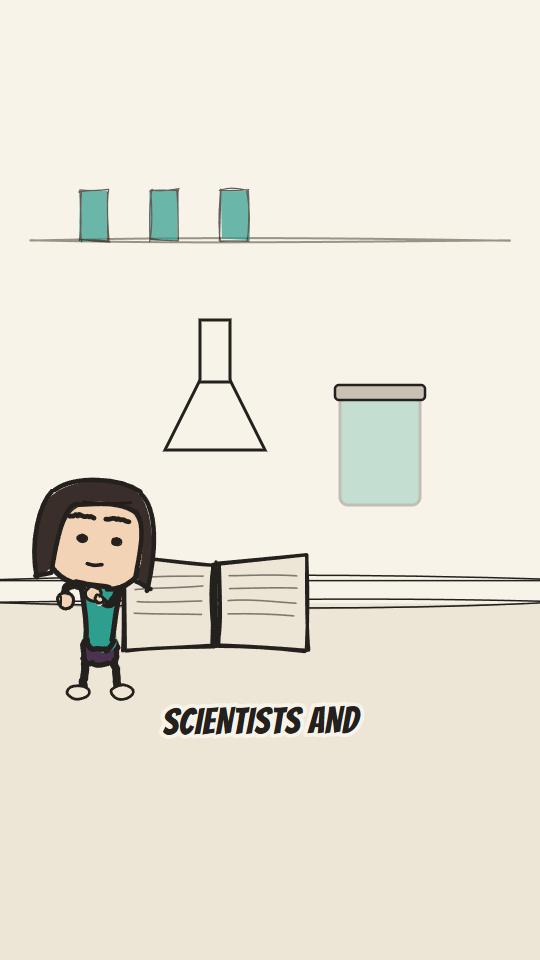
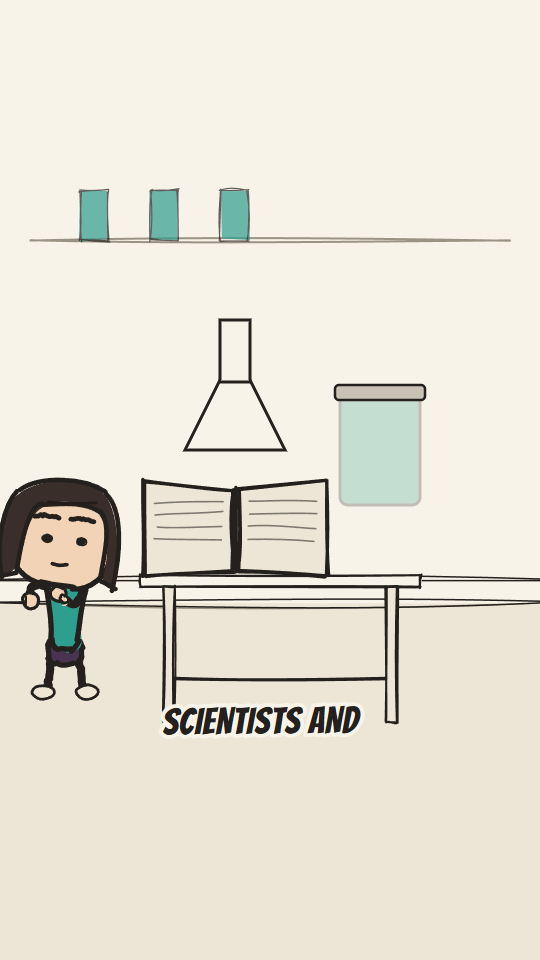
fix: resolve final batch visual defects
MANHOLE — the caption sat inside the shaft void. The cutaway's origin is road
level and it descends 200 units; at y=1100 scale 2.2 that reaches y=1540, and
the caption band starts around 1400, so near-black text landed on a near-black
rectangle. ManholeShaft gains a `depth` parameter that shortens the descent
WITHOUT narrowing it -- a plain scale change would shrink the width too, and the
cover has to stay visibly wider than the hole it cannot fall through, which is
the entire point of the episode. Applied to all three shafts in the episode; the
void now ends at 1364 and 1379.

OLD BOOK — the science scene was authored against a lab bench its storyboard
describes but nothing ever drew, so the book sat at y=1200, straddling the
background's 1204 horizon, and read as floating through Mina.

Added a LabBench prop in the existing doodle language: slab, front edge, two
legs and a stretcher. Its origin is on the TOP SURFACE rather than at the
centre, deliberately -- a prop that rests on a bench should be positioned
against the surface it rests on, and every placement bug on this channel so far
has come from an origin that was not where the author assumed (the character
rig's y is the hip, not the feet; a prop's y is its centre, not its base).

The book's own geometry then gives the placement: an open book's shapes run to
+62 locally, so at scale 1.6 its lower edge is 99px below its origin, and origin
[…]

Changed region(s): [[0.0, 0.5, 0.8, 0.7812], [0.2963, 0.3125, 0.5333, 0.4688]]

diff --git a/src/episodes/old-book-smell/scenes.tsx b/src/episodes/old-book-smell/scenes.tsx
@@ -17,7 +17,7 @@ import { useCurrentFrame } from 'remotion';
 import { Stage } from '../../components/Stage';
 import { DoodleCharacter } from '../../components/DoodleCharacter';
 import { LibraryShelf, CutawayVoid, ConservationLab } from '../../backgrounds/everyday';
-import { Book, BookCutaway } from '../../props/objects';
+import { Book, BookCutaway, LabBench } from '../../props/objects';
 import { ScentCurls, Molecule, CircleIt } from '../../fx/diagram';
 import { Sparkles } from '../../fx/marks';
 import { usePoseSwap } from '../../animation/PoseSwap';
@@ -355,22 +355,32 @@ const Science: React.FC = () => {
       <SceneCamera originX={540} originY={1000}>
         <ConservationLab frame={frame} />
 
-        <Book x={430} y={1200} scale={1.6} frame={frame} seed="ep10-book-lab" open wear={0.9} />
+        {/*
+          * The bench the storyboard always described. Its surface is at y=1150 and its legs
+          * reach the floor; the book then sits ON it rather than hovering at the background's
+          * 1204 horizon, which is what made it look like it was floating through Mina.
+          *
+          * Book maths: the open book's shapes run to +62 locally, so at scale 1.6 its lower
+          * edge is 99px below its origin. Origin 1051 puts that edge on the 1150 surface.
+          */}
+        <LabBench x={560} y={1150} width={560} legHeight={270} frame={frame} seed="ep10-bench" />
+
+        <Book x={470} y={1051} scale={1.6} frame={frame} seed="ep10-book-lab" open wear={0.9} />
 
         {/* a collection funnel over the book */}
         <g>
           <polygon
-            points="330,900 530,900 460,760 400,760"
+            points="370,900 570,900 500,760 440,760"
             fill={PALETTE.paper}
             stroke={PALETTE.ink}
             strokeWidth={6}
           />
-          <rect x={400} y={640} width={60} height={124} fill={PALETTE.paper} stroke={PALETTE.ink} strokeWidth={6} />
+          <rect x={440} y={640} width={60} height={124} fill={PALETTE.paper} stroke={PALETTE.ink} strokeWidth={6} />
         </g>
 
         {after(frame, F_EMIT) && (
           <g opacity={collect}>
-            <ScentCurls x={430} y={1080} scale={1.5} frame={frame} seed="ep10-collect" count={2} height={200} decay={0.6} />
+            <ScentCurls x={470} y={950} scale={1.5} frame={frame} seed="ep10-collect" count={2} height={200} decay={0.6} />
           </g>
         )}
 
@@ -397,7 +407,7 @@ const Science: React.FC = () => {
           character="mina"
           pose="clipboard"
           expression={after(frame, F_AGE) ? 'smallSmile' : 'neutral'}
-          x={200}
+          x={130}
           y={1294}
           scale={2.3}
           frame={frame}

diff --git a/src/props/objects.tsx b/src/props/objects.tsx
@@ -358,3 +358,49 @@ export const RoadDash: React.FC<PropArgs & { len?: number; thick?: number; color
     />
   </PropFrame>
 );
+
+/**
+ * A plain workbench, seen straight on. Origin sits on the TOP SURFACE.
+ *
+ * The `science` scene of old-book-smell was authored against a bench its storyboard describes
+ * but nothing ever drew. Without it the book was placed at y=1200 — straddling the lab
+ * background's 1204 horizon — so it read as floating at the wall/floor junction and overlapped
+ * Mina, who stands beside it.
+ *
+ * Origin on the surface rather than at the centre is the whole point: a prop that sits on a
+ * bench should be positioned relative to the surface it rests on, and every previous
+ * placement bug on this channel has come from an origin that was not where the author assumed.
+ * `legHeight` reaches down to the floor, so the caller sets the surface height and the bench
+ * meets the ground on its own.
+ */
+const benchDef = (width: number, legHeight: number): AssetDef => {
+  const half = width / 2;
+  const inset = Math.min(46, width * 0.12);
+  return {
+    id: `prop-bench-${Math.round(width)}-${Math.round(legHeight)}`,
+    size: { w: width + 20, h: legHeight + 40 },
+    shapes: [
+      // the slab, with a visible front edge so it reads as a surface rather than a line
+      { k: 'rect', x: -half, y: 0, w: width, h: 24, fill: PALETTE.paper, stroke: PALETTE.ink },
+      { k: 'line', x1: -half + 8, y1: 24, x2: half - 8, y2: 24, sw: 3, rough: 'detail', opacity: 0.5 },
+      // legs
+      { k: 'rect', x: -half + inset, y: 24, w: 22, h: legHeight, fill: PALETTE.paperShade, stroke: PALETTE.ink },
+      { k: 'rect', x: half - inset - 22, y: 24, w: 22, h: legHeight, fill: PALETTE.paperShade, stroke: PALETTE.ink },
+      // a stretcher between them, which is what makes it read as furniture and not two posts
+      {
+        k: 'line',
+        x1: -half + inset + 22, y1: 24 + legHeight * 0.68,
+        x2: half - inset - 22, y2: 24 + legHeight * 0.68,
+        sw: 6,
+      },
+    ],
+  };
+};
+
+export const LabBench: React.FC<PropArgs & { width?: number; legHeight?: number }> = ({
+  width = 520, legHeight = 250, seed = 'bench', ...rest
+}) => (
+  <PropFrame seed={seed} {...rest}>
+    <RoughAsset def={benchDef(width, legHeight)} variant={`${seed}:${width}`} />
+  </PropFrame>
+);

diff --git a/src/props/machines.tsx b/src/props/machines.tsx
@@ -436,22 +436,32 @@ export const ManholeCover: React.FC<PropArgs & { shape?: 'round' | 'square' }> =
   </PropFrame>
 );
 
-/** The opening in section: a rim and a shaft dropping into the dark. Origin at road level. */
-const SHAFT: AssetDef = {
-  id: 'prop-manhole-shaft',
-  size: { w: 160, h: 220 },
+/**
+ * The opening in section: a rim and a shaft dropping into the dark. Origin at road level.
+ *
+ * `depth` scales how far the shaft descends WITHOUT narrowing it. A plain `scale` change would
+ * shrink the width too, and the cover has to stay visibly wider than the hole it cannot fall
+ * through -- that relationship is the entire point of the episode. Depth exists because at
+ * full extent the void ran from y=1100 to y=1540 and swallowed the caption band at 1442,
+ * leaving near-black text on a near-black rectangle.
+ */
+const shaftDef = (depth: number): AssetDef => ({
+  id: `prop-manhole-shaft-${Math.round(depth * 100)}`,
+  size: { w: 160, h: 20 + 200 * depth },
   shapes: [
-    { k: 'rect', x: -78, y: 0, w: 16, h: 200, fill: PALETTE.grey, stroke: PALETTE.ink },
-    { k: 'rect', x: 62, y: 0, w: 16, h: 200, fill: PALETTE.grey, stroke: PALETTE.ink },
-    { k: 'rect', x: -62, y: 0, w: 124, h: 200, fill: PALETTE.nightWall, stroke: 'none' },
+    { k: 'rect', x: -78, y: 0, w: 16, h: 200 * depth, fill: PALETTE.grey, stroke: PALETTE.ink },
+    { k: 'rect', x: 62, y: 0, w: 16, h: 200 * depth, fill: PALETTE.grey, stroke: PALETTE.ink },
+    { k: 'rect', x: -62, y: 0, w: 124, h: 200 * depth, fill: PALETTE.nightWall, stroke: 'none' },
     // the rim the cover rests on — the ledge that makes a circle safe
     { k: 'line', x1: -92, y1: 0, x2: -62, y2: 0, sw: 5 },
     { k: 'line', x1: 62, y1: 0, x2: 92, y2: 0, sw: 5 },
   ],
-};
+});
 
-export const ManholeShaft: React.FC<PropArgs> = ({ seed = 'manhole-shaft', ...rest }) => (
+export const ManholeShaft: React.FC<PropArgs & { depth?: number }> = ({
+  seed = 'manhole-shaft', depth = 1, ...rest
+}) => (
   <PropFrame seed={seed} {...rest}>
-    <RoughAsset def={SHAFT} variant={seed} />
+    <RoughAsset def={shaftDef(depth)} variant={`${seed}:${depth}`} />
   </PropFrame>
 );

diff --git a/src/episodes/round-manhole-covers/scenes.tsx b/src/episodes/round-manhole-covers/scenes.tsx
@@ -126,7 +126,11 @@ const CannotFall: React.FC = () => {
       <SceneCamera originX={540} originY={1000}>
         <CutawayVoid frame={frame} />
 
-        <ManholeShaft x={540} y={1100} scale={2.2} frame={frame} seed="ep8-shaft" />
+        {/*
+          * depth 0.6 stops the void at y≈1364, clearing the caption band that begins around
+          * 1400. At full depth it reached 1540 and the caption sat inside it.
+          */}
+        <ManholeShaft x={540} y={1100} scale={2.2} depth={0.6} frame={frame} seed="ep8-shaft" />
 
         {/* the cover, tilted and turned — it catches on the rim every time */}
         <g transform={`translate(540 1010) rotate(${spin}) scale(1 ${0.4 + Math.abs(Math.cos((spin * Math.PI) / 180)) * 0.6})`}>
@@ -184,7 +188,11 @@ const OtherShapes: React.FC = () => {
       <SceneCamera x={shake.x} y={shake.y} rotate={shake.rotate} originX={540} originY={1050}>
         <CutawayVoid frame={frame} />
 
-        <ManholeShaft x={540} y={1100} scale={2.2} frame={frame} seed="ep8-shaft" />
+        {/*
+          * depth 0.6 stops the void at y≈1364, clearing the caption band that begins around
+          * 1400. At full depth it reached 1540 and the caption sat inside it.
+          */}
+        <ManholeShaft x={540} y={1100} scale={2.2} depth={0.6} frame={frame} seed="ep8-shaft" />
 
         {/* the square, confidently placed, then gone */}
         {after(frame, F_OTHER) && drop < 1 && (
@@ -304,7 +312,7 @@ const OtherWins: React.FC = () => {
 
         {after(frame, F_SHAFT) && (
           <>
-            <ManholeShaft x={540} y={1150} scale={2.2} frame={frame} seed="ep8-shaft" />
+            <ManholeShaft x={540} y={1150} scale={2.2} depth={0.52} frame={frame} seed="ep8-shaft" />
             <ManholeCover x={540} y={1130} scale={2.4} frame={frame} seed="ep8-cover" />
             <Reveal frame={frame} at={F_SHAFT + 8} originX={840} originY={1130}>
               <Tick x={840} y={1130} scale={1.8} frame={frame} seed="ep8-seats" />
